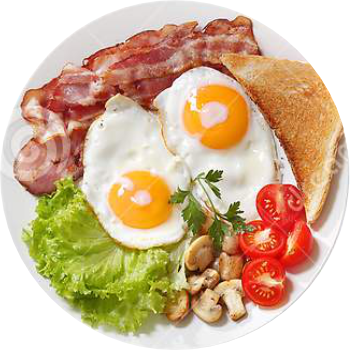
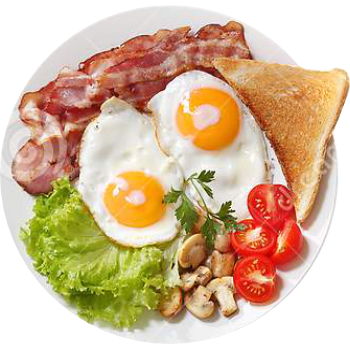
completed first version of the app.

diff --git a/lib/pages/detail_page.dart b/lib/pages/detail_page.dart
@@ -1,5 +1,7 @@
 import 'package:flutter/material.dart';
+import 'package:recipe_browser/data/data.dart';
 import 'package:recipe_browser/models/recipe_info.dart';
+import 'package:simple_shadow/simple_shadow.dart';
 
 class DetailPage extends StatelessWidget {
   final RecipeInfo recipeInfo;
@@ -90,19 +92,41 @@ class DetailPage extends StatelessWidget {
                         itemCount: recipeInfo.popular.length,
                         scrollDirection: Axis.horizontal,
                         itemBuilder: (context, index) {
-                          return Card(
-                            clipBehavior: Clip.antiAlias,
-                            shape: RoundedRectangleBorder(
-                              borderRadius: BorderRadius.circular(24),
-                            ),
-                            child: Padding(
-                              padding: const EdgeInsets.all(8.0),
-                              child: AspectRatio(
+                          final popularId = recipeInfo.popular[index];
+                          final popularRecipeInfo = recipes[popularId - 1];
+                          return GestureDetector(
+                            onTap: () {
+                              Navigator.pushReplacement(
+                                context,
+                                PageRouteBuilder(
+                                  pageBuilder: (context, a, b) => DetailPage(
+                                    recipeInfo: popularRecipeInfo,
+                                  ),
+                                ),
+                              );
+                            },
+                            child: Card(
+                              clipBehavior: Clip.antiAlias,
+                              shape: RoundedRectangleBorder(
+                                borderRadius: BorderRadius.circular(24),
+                              ),
+                              child: Padding(
+                                padding: const EdgeInsets.all(8.0),
+                                child: AspectRatio(
                                   aspectRatio: 1,
                                   child: Image.asset(
-                                    recipeInfo.popular[index],
+                                    popularRecipeInfo.image,
                                     fit: BoxFit.fitWidth,
-                                  )),
+                                  ),
+                                  // child: Hero(
+                                  //   tag: popularRecipeInfo.id,
+                                  //   child: Image.asset(
+                                  //     popularRecipeInfo.image,
+                                  //     fit: BoxFit.fitWidth,
+                                  //   ),
+                                  // ),
+                                ),
+                              ),
                             ),
                           );
                         }),
@@ -118,7 +142,12 @@ class DetailPage extends StatelessWidget {
                 child: SizedBox(
                   width: 200,
                   height: 200,
-                  child: Image.asset(recipeInfo.image),
+                  child: SimpleShadow(
+                    opacity: 0.4,
+                    color: Colors.grey,
+                    offset: Offset(5, 5),
+                    child: Image.asset(recipeInfo.image),
+                  ),
                 ),
               ),
             ),

diff --git a/lib/main.dart b/lib/main.dart
@@ -3,6 +3,24 @@ import 'package:flutter_workbench/flutter_workbench.dart';
 import 'package:recipe_browser/config/constants.dart';
 import 'package:recipe_browser/pages/browse_page.dart';
 
+void main() => runApp(MaterialApp(
+      debugShowCheckedModeBanner: false,
+      home: DevicePreviewContainer(
+        device: Devices.ios.iPhone11,
+        child: SafeArea(
+          child: MaterialApp(
+            debugShowCheckedModeBanner: false,
+            theme: ThemeData(
+              colorScheme: colorScheme,
+              primarySwatch: Colors.blue,
+              visualDensity: VisualDensity.adaptivePlatformDensity,
+            ),
+            home: BrowsePage(),
+          ),
+        ),
+      ),
+    ));
+
 // void main() => FlutterWorkbench.runAppDevicePreview(
 //       title: 'Responsive Card',
 //       device: Devices.ios.iPhone11,
@@ -11,26 +29,46 @@ import 'package:recipe_browser/pages/browse_page.dart';
 //       //child: RecipeBrowser(title: 'Recipe Browser'),
 //     );
 
-void main() => runApp(MyApp());
+// void main() => FlutterWorkbench.runAppContainer(
+//       title: 'Recipe Browser',
+//       styles: SharedStyle.themes,
+//       child: DevicePreviewContainer(
+//         device: Devices.ios.iPhone11,
+//         child: SafeArea(
+//           child: MaterialApp(
+//             debugShowCheckedModeBanner: false,
+//             theme: ThemeData(
+//               colorScheme: colorScheme,
+//               primarySwatch: Colors.blue,
+//               visualDensity: VisualDensity.adaptivePlatformDensity,
+//             ),
+//             home: BrowsePage(),
+//           ),
+//         ),
+//       ),
+//       //child: RecipeBrowser(title: 'Recipe Browser'),
+//     );
 
-class MyApp extends StatelessWidget {
-  // This widget is the root of your application.
-  @override
-  Widget build(BuildContext context) {
-    return DevicePreviewContainer(
-      device: Devices.ios.iPhone11,
-      child: SafeArea(
-        child: MaterialApp(
-          title: 'Flutter Demo',
-          theme: ThemeData(
-            colorScheme: colorScheme,
-            primarySwatch: Colors.blue,
-            visualDensity: VisualDensity.adaptivePlatformDensity,
-          ),
-          home: BrowsePage(),
-          debugShowCheckedModeBanner: false,
-        ),
-      ),
-    );
-  }
-}
+// void main() => runApp(MyApp());
+//
+// class MyApp extends StatelessWidget {
+//   // This widget is the root of your application.
+//   @override
+//   Widget build(BuildContext context) {
+//     return DevicePreviewContainer(
+//       device: Devices.ios.iPhone11,
+//       child: SafeArea(
+//         child: MaterialApp(
+//           title: 'Flutter Demo',
+//           theme: ThemeData(
+//             colorScheme: colorScheme,
+//             primarySwatch: Colors.blue,
+//             visualDensity: VisualDensity.adaptivePlatformDensity,
+//           ),
+//           home: BrowsePage(),
+//           debugShowCheckedModeBanner: false,
+//         ),
+//       ),
+//     );
+//   }
+// }

diff --git a/lib/pages/browse_page.dart b/lib/pages/browse_page.dart
@@ -3,6 +3,7 @@ import 'package:flutter/material.dart';
 /// TODO: need to switch to a different swiper, or fork and fix Null Safety
 import 'package:flutter_swiper/flutter_swiper.dart';
 import 'package:recipe_browser/pages/detail_page.dart';
+import 'package:simple_shadow/simple_shadow.dart';
 
 import '../data/data.dart';
 
@@ -12,6 +13,8 @@ class BrowsePage extends StatefulWidget {
 }
 
 class _BrowsePageState extends State<BrowsePage> {
+  static const CARD_SIZE = 300.0;
+
   @override
   Widget build(BuildContext context) {
     final theme = Theme.of(context);
@@ -82,7 +85,7 @@ class _BrowsePageState extends State<BrowsePage> {
                 padding: const EdgeInsets.only(left: 32),
                 child: Swiper(
                   itemCount: recipes.length,
-                  itemWidth: MediaQuery.of(context).size.width - 2 * 64,
+                  itemWidth: CARD_SIZE, //MediaQuery.of(context).size.width - 2 * 64,
                   layout: SwiperLayout.STACK,
                   pagination: SwiperPagination(
                     builder: DotSwiperPaginationBuilder(
@@ -179,7 +182,13 @@ class _BrowsePageState extends State<BrowsePage> {
                               child: SizedBox(
                                 height: 200,
                                 width: 200,
-                                child: Image.asset(recipes[index].image),
+                                child: SimpleShadow(
+                                  opacity: 0.4,
+                                  color: Colors.grey,
+                                  offset: Offset(5, 5),
+                                  child: Image.asset(recipes[index].image),
+                                ),
+                                // child: Image.asset(recipes[index].image),
                               ),
                             ),
                           ),

diff --git a/lib/data/data.dart b/lib/data/data.dart
@@ -1,13 +1,16 @@
 import 'package:faker/faker.dart';
 import 'package:recipe_browser/models/recipe_info.dart';
 
+const NUM_OF_RECIPES = 12;
+
 final title = () => faker.lorem.word();
 final subtitle = () => faker.lorem.words(3).join(' ');
 final description = () => faker.lorem.words(30).join(' ');
-final image = () => 'images/plates/plate${faker.randomGenerator.integer(12, min: 1)}.png';
-final images = () => Iterable.generate(5).map((i) => image()).toList();
+//final image = () => 'images/plates/plate${faker.randomGenerator.integer(12, min: 1)}.png';
+final recipeId = () => faker.randomGenerator.integer(NUM_OF_RECIPES, min: 1);
+final popular = () => Iterable.generate(5).map((i) => recipeId()).toList();
 
-List<RecipeInfo> recipes = Iterable.generate(12)
+List<RecipeInfo> recipes = Iterable.generate(NUM_OF_RECIPES)
     .map((i) => i + 1)
     .map((i) => RecipeInfo(
           i,
@@ -15,6 +18,6 @@ List<RecipeInfo> recipes = Iterable.generate(12)
           subtitle: subtitle(),
           image: 'images/plates/plate$i.png',
           description: description(),
-          popular: images(),
+          popular: popular(),
         ))
     .toList();

diff --git a/lib/models/recipe_info.dart b/lib/models/recipe_info.dart
@@ -4,7 +4,7 @@ class RecipeInfo {
   final String subtitle;
   final String image;
   final String description;
-  final List<String> popular;
+  final List<int> popular;
 
   RecipeInfo(
     this.id, {
